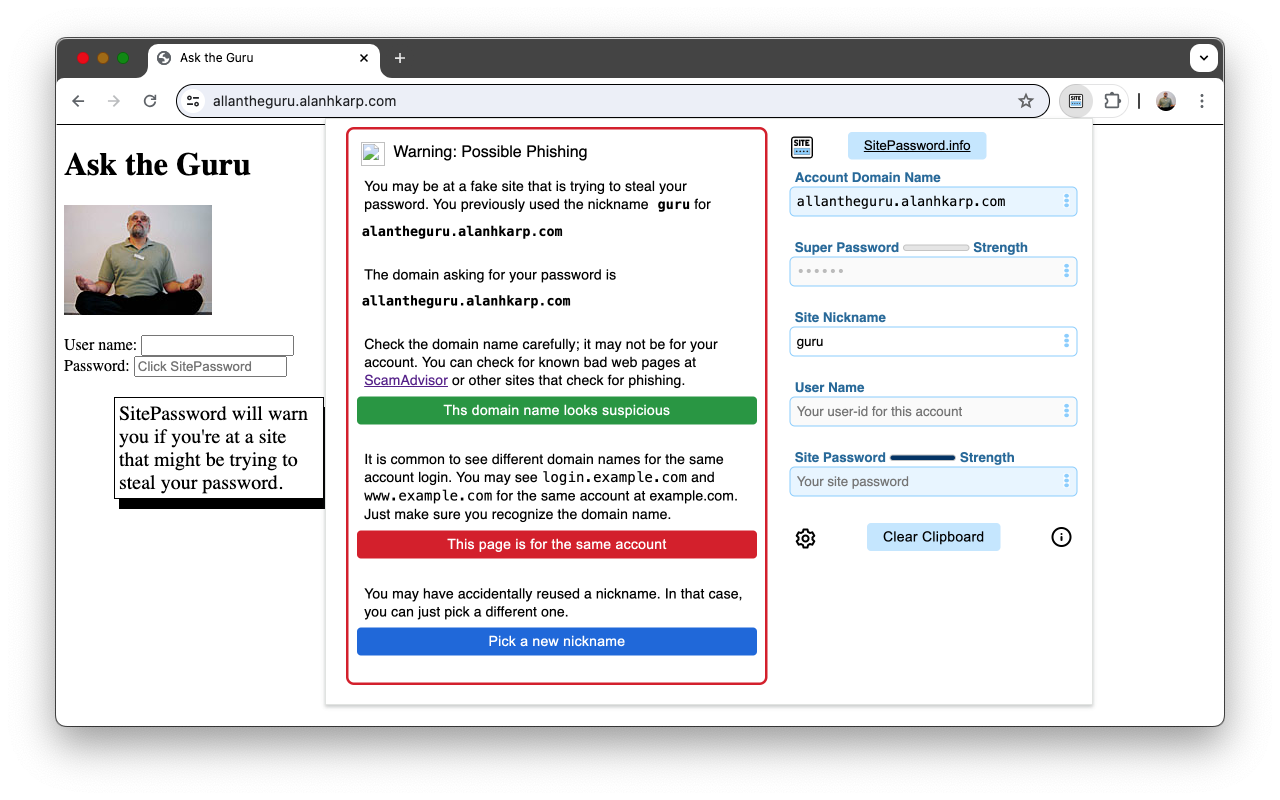
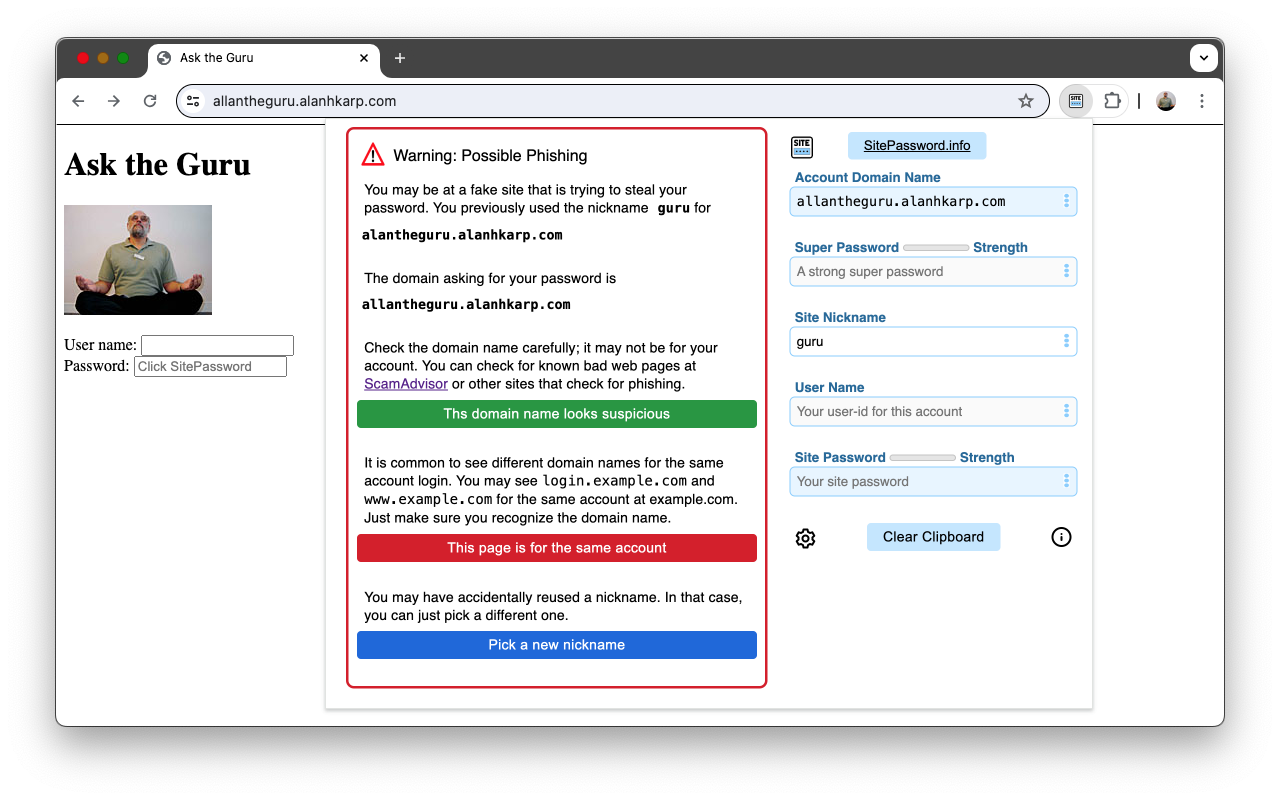
Fix broken warning image
I hadn't changed the location of the warning icon in the HTML.

diff --git a/ssp.html b/ssp.html
@@ -1140,7 +1140,7 @@ to change all occurrences if ![](images...) to <img> tags.
       </div>
       <div id="warnings" class="sticky side-panel" style="display: none; width: auto; top: -10px">
         <div id="phishing" class="warning nodisplay" style="width: 25em">
-          <img src="warning.png" class="icon warning-icon">
+          <img src="images/warning.png" class="icon warning-icon">
           <span class="warningtext">Warning: Possible Phishing</span>
           <p>
             <!-- https://www.ipqualityscore.com/threat-feeds/malicious-url-scanner 
@@ -1194,7 +1194,7 @@ to change all occurrences if ![](images...) to <img> tags.
         </div>
         <div id="http" class="warning nodisplay" style="width: 18em">
           <span id="httptext">
-            <img src="warning.png" class="icon warning-icon">
+            <img src="images/warning.png" class="icon warning-icon">
             <span class="warningtext">Warning: Page Not Secure</span>
             <p>
               The connection to this page is not secure. Are you sure you want to enter your super password?
@@ -1204,7 +1204,7 @@ to change all occurrences if ![](images...) to <img> tags.
         <div id="zero" class="warning nodisplay" style="width: 18em"
           title="SitePassword didn't find any password fields.  You will have to paste your site password.">
           <span id="zerotext">
-            <img src="warning.png" class="icon warning-icon">
+            <img src="images/warning.png" class="icon warning-icon">
             <span class="warningtext">Warning: No Password Fields</span>
             <p>
               Site Password did not find any password fields
@@ -1217,7 +1217,7 @@ to change all occurrences if ![](images...) to <img> tags.
         <div id="forget" class="warning nodisplay" style="width: 18em"
           title="You can change your mind or permanently forget the settings for the listed domain names.">
           <span id="forgettext">
-            <img src="warning.png" class="icon warning-icon">
+            <img src="images/warning.png" class="icon warning-icon">
             <span class="warningtext">Forget Enabled</span>
             <p>
               Are you sure you want to delete the settings for these domain names?
@@ -1243,7 +1243,7 @@ to change all occurrences if ![](images...) to <img> tags.
         <div id="nopw" class="warning nodisplay" style="width: 18em"
           title="You may need to enable some characters, increase the pasword length, or reduce the number of special characters you're asking for.">
           <span id="nopwtext">
-            <img src="warning.png" class="icon warning-icon">
+            <img src="images/warning.png" class="icon warning-icon">
             <span class="warningtext">Warning: No Password</span>
             <p>
               Site Password can't compute a password with these settings. You

diff --git a/store/gurunotated5.html b/store/gurunotated5.html
@@ -266,7 +266,7 @@
           </div>
           <div class="form-row">
             <div id="phishing" class="warning nodisplay">
-              <img src="src/warning.png" class="icon warning-icon">
+              <img src="images/warning.png" class="icon warning-icon">
               <span class="warningtext">Warning: Possible Phishing</span>
               <p>
                 <!-- https://www.ipqualityscore.com/threat-feeds/malicious-url-scanner 
@@ -329,7 +329,7 @@
           <div id="forget" class="warning nodisplay"
           title="You can change your mind or permanently forget the settings for the listed domain names.">
           <span id="forgettext">
-            <img src="src/warning.png" class="icon warning-icon">
+            <img src="images/warning.png" class="icon warning-icon">
             <span class="warningtext">Forget Enabled</span>
             <p>
               Are you sure you want to delete the settings for these domain names?
